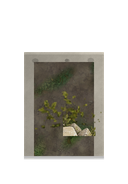
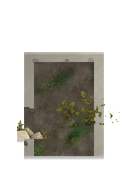
art: break the side coping of ruined vertical planter runs
Native review of the first after captures (S4A collapsed ward start
square): the ruined pieces read broken on horizontal runs, but a
north-south run still showed two continuous pale side copings, so a
long vertical edge looked like a tidy trough with weeds in it.

A vertical run now loses a short stretch of one side coping (west or
east, seeded per piece), earth showing through and a small rubble
fragment where the stone has gone. Only ruin34_01, _04, _05 and _v_b
change; the bake is otherwise byte-identical (kerb and moss pieces and
the worn atlas are unchanged on re-run).

diff --git a/tools/design/build_plaza_wear_kit.py b/tools/design/build_plaza_wear_kit.py
@@ -259,9 +259,25 @@ def broken_coping(piece, top: np.ndarray, inner: np.ndarray, seed: int, gaps: in
     arms = _arms(piece.mask)
     for k in range(gaps):
         axis, lo, hi, _ = arms[k % len(arms)]
-        # Only a front (south) coping and its face crumble: the break reads
-        # at the edge the camera sees, not as holes through the band.
-        if axis != "x" or hi - lo < 18.0 or piece.mask & S:
+        if hi - lo < 18.0:
+            continue
+        if axis == "y":
+            # A vertical run loses a stretch of one side coping: the earth
+            # spills through where the stone has gone.
+            at = rng.uniform(lo + 7.0, hi - 7.0)
+            half = rng.uniform(5.0, 8.0)
+            west = bool(rng.integers(0, 2))
+            jag = _smooth_noise(seed + k * 17, (piece.h, piece.w), world(1.2))
+            along = piece.yy / RS - K.HEADROOM + piece.lift
+            px = piece.xx / RS
+            side = (px < piece.t0 + piece.coping + 0.5) if west else (px > piece.t1 - piece.coping - 0.5)
+            rim_part = (np.abs(along - at) + jag * 1.4 < half) & side & top & ~inner
+            piece.rgba[rim_part, :3] = np.clip(RUIN_GROUND[piece.yy[rim_part] % 256, piece.xx[rim_part] % 256], 0, 255)
+            centres.append(("y", at, piece.t0 + 4.0 if west else piece.t1 - 4.0))
+            continue
+        # A horizontal run's front (south) coping and face crumble: the break
+        # reads at the edge the camera sees, not as holes through the band.
+        if piece.mask & S:
             continue
         at = rng.uniform(lo + 7.0, hi - 7.0)
         half = rng.uniform(5.0, 8.5)
@@ -283,7 +299,7 @@ def broken_coping(piece, top: np.ndarray, inner: np.ndarray, seed: int, gaps: in
             cut = ys < (ys.min() + world(piece.lift * 0.55)) + jag[face_part] * world(1.5)
             idx = np.where(face_part)
             piece.rgba[idx[0][cut], idx[1][cut], 3] = 0.0
-        centres.append((axis, at))
+        centres.append((axis, at, CELL / 2.0))
     return centres
 
 
@@ -303,11 +319,11 @@ def build_ruin(mask: int, variant: int = 0) -> Image.Image:
     rng = np.random.default_rng(503 + mask * 23 + variant)
     c = CELL / 2.0
     front = piece.t1 - 3.0
-    for k, (axis, at) in enumerate(centres):
+    for k, (axis, at, across) in enumerate(centres):
         if axis == "x":
             chip(piece, k + variant, at, front + 2.0, rng.uniform(18.0, 22.0), flip=bool(k % 2))
         else:
-            chip(piece, k + variant, c, at + 4.0, rng.uniform(15.0, 18.0), flip=bool(k % 2))
+            chip(piece, k + variant, across, at + 5.0, rng.uniform(13.0, 16.0), flip=bool(k % 2))
     # Weeds: one or two unclipped tufts, low, never a hedge.
     if mask == (N | S):
         tufts = [(c + rng.uniform(-5.0, 5.0), 28.0 + 10.0 * variant), (c + rng.uniform(-5.0, 5.0), 52.0)]
